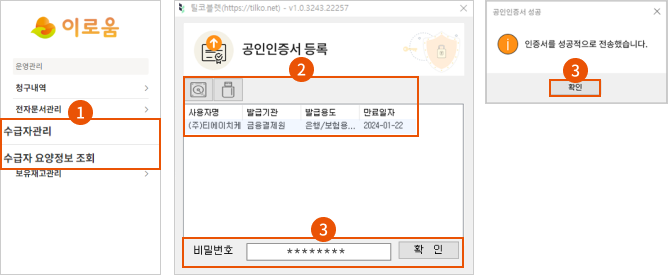
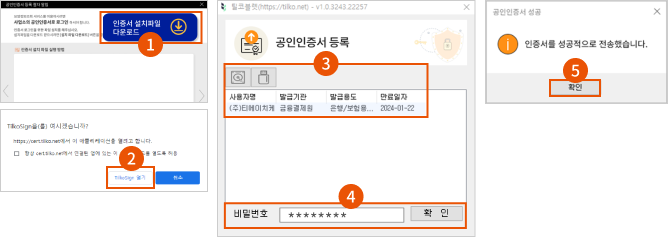
0210-05

diff --git a/2023Re_eroum/main_eroum.html b/2023Re_eroum/main_eroum.html
@@ -20,9 +20,11 @@
     <link rel="stylesheet" href="https://cdnjs.cloudflare.com/ajax/libs/Swiper/8.2.4/swiper-bundle.css" integrity="sha512-303pOWiYlJMbneUN488MYlBISx7PqX8Lo/lllysH56eKO8nWIMEMGRHvkZzfXYrHj4j4j5NtBuWmgPnkLlzFCg==" crossorigin="anonymous" referrerpolicy="no-referrer" />
     <script src="https://cdnjs.cloudflare.com/ajax/libs/Swiper/8.2.4/swiper-bundle.min.js" integrity="sha512-Hvn3pvXhhG39kmZ8ue3K8hw8obT4rfLXHE5n+IWNCMkR6oV3cfkQNUQqVvX3fNJO/JtFeo/MfLmqp5bqAT+8qg==" crossorigin="anonymous" referrerpolicy="no-referrer"></script>
      <!-- Swiper JS -->
-     <script src="https://cdn.jsdelivr.net/npm/swiper/swiper-bundle.min.js"></script>
-     <script src="https://cdn.jsdelivr.net/npm/swiper@9/swiper-bundle.min.js"></script>
-     <script src="https://ajax.googleapis.com/ajax/libs/jquery/3.6.0/jquery.min.js"></script> 
+    <!-- swiper -->
+    <script src="https://cdnjs.cloudflare.com/ajax/libs/Swiper/9.0.0/swiper-bundle.min.js" integrity="sha512-U0YYmuLwX0Z1X7dX4z45TWvkn0f8cDXPzLL0NvlgGmGs0ugchpFAO7K+7uXBcCrjVDq5A0wAnISCcf/XhSNYiA==" crossorigin="anonymous" referrerpolicy="no-referrer"></script>
+    <link rel="stylesheet" href="https://cdn.jsdelivr.net/npm/swiper@9/swiper-bundle.min.css" />
+     <!-- <script src="https://ajax.googleapis.com/ajax/libs/jquery/3.6.0/jquery.min.js"></script>  -->
+     
                
 
 </head>
@@ -220,7 +222,7 @@
             <div class="top_noticeWrap">
                 <ul class="top_notice">
                     <li class="noticeTitle"><img src="images/main_eroum/thkc_ico_bell.svg" alt=""> 공지사항</li>
-                    <li class="noticeCon"><a href="#">[23년 1월] 복지용구 직배송사 설 연휴 배송 ...</a>
+                    <li class="noticeCon"><a href="#">[23년 1월] 복지용구 직배송사 설 연휴 배송f ...</a>
                         <!-- 모바일에서 글자수 제한필요 -->
                         <div class="noticeArrow">
                             <a href="#"><img src="images/common/thkc_btn_arrow_down.svg" alt=""></a>
@@ -232,39 +234,21 @@
             <!-- 프로모션 슬라이딩 배너 -->
             <div class="eventWrap">
                 <!-- Swiper -->
-                <div class="swiper mySwiper">
-                    <div class="swiper-wrapper">
-                        <div class="swiper-slide"><img src="images/main_eroum/thkc_img_banner.png" alt=""></div>
-                        <div class="swiper-slide"><img src="images/main_eroum/thkc_img_banner.png" alt=""></div>
-                        <div class="swiper-slide"><img src="images/main_eroum/thkc_img_banner.png" alt=""></div>
-                        <div class="swiper-slide"><img src="images/main_eroum/thkc_img_banner.png" alt=""></div>
-                        <div class="swiper-slide"><img src="images/main_eroum/thkc_img_banner.png" alt=""></div>
+                <div class="swiper eventSwiper">
+                    <div class="swiper-wrapper">                        
+                        <div class="swiper-slide img_r"><img src="images/main_eroum/thkc_img_banner.png" alt=""></div>
+                        <div class="swiper-slide img_r"><img src="images/main_eroum/thkc_img_banner.png" alt=""></div>
+                        <div class="swiper-slide img_r"><img src="images/main_eroum/thkc_img_banner.png" alt=""></div>
+                        <div class="swiper-slide img_r"><img src="images/main_eroum/thkc_img_banner.png" alt=""></div>
                     </div>
-                    <div class="swiper-button-next"></div>
-                    <div class="swiper-button-prev"></div>
-                    <div class="swiper-pagination"></div>
+                    <!-- <div class="swiper-button-next"></div>
+                    <div class="swiper-button-prev"></div>  -->
+                    <div class="swiper-pagination"></div>                  
                 </div>
 
 
-                <!-- Initialize Swiper -->
-                <script>
-                    var swiper = new Swiper(".mySwiper", {
-                    spaceBetween: 30,
-                    centeredSlides: true,
-                    autoplay: {
-                        delay: 2500,
-                        disableOnInteraction: false,
-                    },
-                    pagination: {
-                        el: ".swiper-pagination",
-                        clickable: true,
-                    },
-                    navigation: {
-                        nextEl: ".swiper-button-next",
-                        prevEl: ".swiper-button-prev",
-                    },
-                    });
-                </script>
+                
+                  
 
             </div>    
           </section>

diff --git a/2023Re_eroum/css/main_eroum.css b/2023Re_eroum/css/main_eroum.css
@@ -62,7 +62,7 @@ section .top_notice .noticeTitle img{
 section .top_notice .noticeCon{
     display: flex; 
 }
-section .top_notice .noticeCon a {
+section .top_notice .noticeCo_menun a {
     font-size: 14px; color: #6B6B6B;
 }
 section .top_notice .noticeCon a:hover {
@@ -75,29 +75,53 @@ section .top_notice .noticeArrow img{
     display: inline;
     padding: 0 0 0 10px;    
 }
+/* 프로모션 슬라이딩 배너 */
+section  img{
+    border-radius:20px;
+}
+section .img_r img{
+    max-width: 100%; height: auto;
+}
+/* swiper */
+:root {
+    --swiper-theme-color: #FF9015 !important;
+    --swiper-navigation-size: 30px !important;
+    --swiper-navigation-color: rgba(0, 0, 0, 0.5);
+    --swiper-pagination-bullet-vertical-gap: 25px;
+    --swiper-pagination-bullet-width: 10px;
+    --swiper-pagination-bullet-height: 10px;
+    --swiper-navigation-top-offset: 50%;
+    --swiper-navigation-sides-offset:20px;
+    --swiper-pagination-bottom: 5px !important;
+}
+
 
 
 /********** css responsive **********/
-@media (max-width: 1399px) {  
+@media (max-width: 1399px) {
+
 }
 
 @media (max-width: 1199px) {
-    #asideWrap{
-        display: none;        
-    }
+       
 }
 
 @media (max-width: 991px) {
-
+  
 }
 @media (max-width: 767px) {
     section{margin-top: 80px;}
-    section .dash_bWrap{display: none;}      
+    section .dash_bWrap{display: none;}
+    section .top_noticeWrap{display: flex; justify-content: flex-start; padding-left: 10px;}    
     section .top_notice .noticeCon a {font-size: 12px;}   
-    section .top_notice{
-      display: block;
-    }
-     
+    section .top_notice{display: block;}
+    /* swiper */
+    :root {  
+    --swiper-pagination-bullet-width: 5px;
+    --swiper-pagination-bullet-height: 5px;
+    --swiper-pagination-bottom: 2px !important;
+}
+
 }
 
 @media (max-width: 430px) {     

diff --git a/2023Re_eroum/js/script.js b/2023Re_eroum/js/script.js
@@ -1,37 +1,7 @@
 console.log("test");
 
-// 메뉴
-        // $(".bg").slideUp()
-        // $(".navbar").hover(function(){
-        //     $(".bg,.submenu").stop().slideDown()
-        // },function(){
-        //     $(".bg,.submenu").stop().slideUp()
-        // })
-
-// 토글
-// $(".toggle").click(function(){
-//     $(".navbarClone").css("left",0);
-//     $(".toggle").addClass("active")
-//     $(".overlay").show();
-// })
-// $(".overlay").click(function(){
-//     $(".navbarClone").css("left","-100%");
-//     $(".toggle").removeClass("active")
-//     $(".overlay").hide();
-
-// })
-
-// 토글
-// $(".toggle").click(function(){
-//     $(".toggle").addClass("active")
-
-// })
-// $(".overlay").click(function(){
-//         $(".toggle").removeClass("active")
-// })
 
 let view = true;
-
 $(".toggle").click(function(){
     if( view == true){
         $(".toggle").addClass("active");
@@ -55,17 +25,19 @@ $(".main_menu li a").click(function(e){
 
 })
 
-// $(".navbarClone .mMenu>ul>li>a").click(function(e){
-//     e.preventDefault();
-//    $(".mMenu>ul>li>a").parent().find(".submenu").slideUp(200);
 
-//    if($(this).hasClass("active")){
-//      $(".mMenu>ul>li>a").removeClass("active")
-//    }else{
-//      $(this).parent().find(".submenu").stop().slideDown(200);
-//      $(".mMenu>ul>li>a").removeClass("active");
-//      $(this).addClass("active").addClass("");    
-
-//    }
-  
-//  })
+// Initialize Swiper               
+var swiper = new Swiper(".eventSwiper", {
+    slidesPerView: "auto",
+    spaceBetween: 30,
+    loop: true,
+    pagination: {
+      el: ".swiper-pagination",
+      clickable: true,
+    },
+    navigation: {
+      nextEl: ".swiper-button-next",
+      prevEl: ".swiper-button-prev",
+    },
+  })
+                    

diff --git a/2023Cert_RegisterUI/index.html b/2023Cert_RegisterUI/index.html
@@ -75,7 +75,7 @@
                             </div>
                             <div class="contentsText">
                                 <h3 class="conTitle">3. 사업소 공인 인증서를 등록하세요!</h3>
-                                이로움의 [수급자관리] 또는 [요양정보 조회] 메뉴를 클릭하시면 '공인인증서 등록'창이 나타납니다.<br>
+                                설치 완료 후 안내창의 ‘설치파일 다운로드’버튼을 한번 더 클릭 후, 팝업창이 뜨면 [TilkoSign 열기] 버튼을 클릭하세요.<br>
                                 [하드디스크] 나 [USB] 버튼을 클릭하여 공인인증서를 찾은 후 비밀번호를 입력하세요.<br>
                                 인증서 성공 창이 나타나면 [확인] 버튼을 누르세요.                
                             </div>
